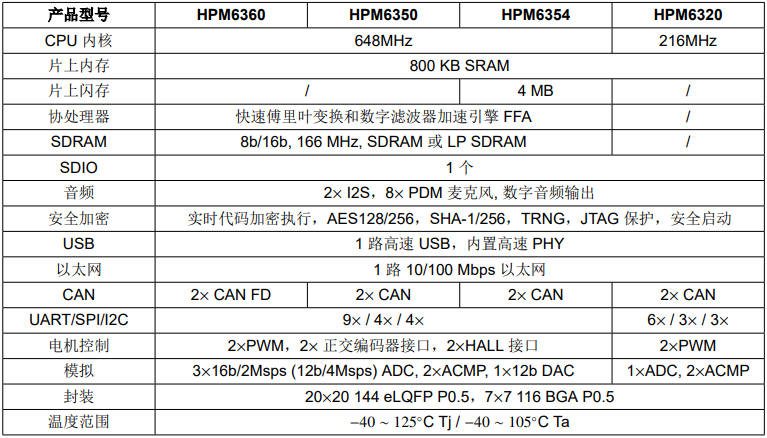
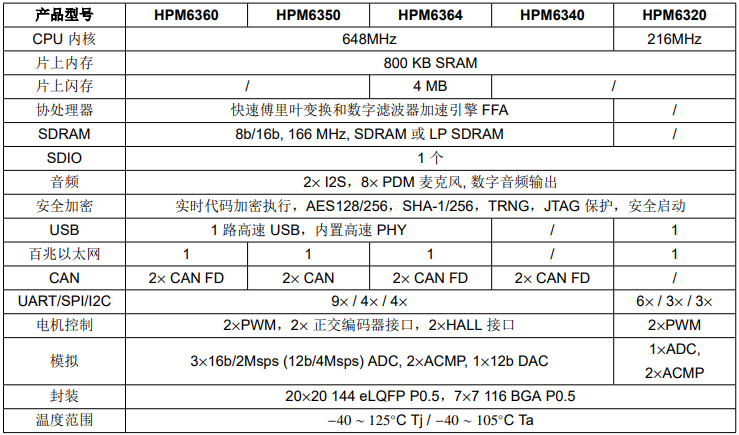
update

diff --git a/docs/high/HPM6350.rst b/docs/high/HPM6350.rst
@@ -21,8 +21,6 @@ HPM6350
 Xin简介
 -----------
 
-
-
 .. contents::
     :local:
 
@@ -37,27 +35,34 @@ Xin简介
 * 参考价格：￥28
 * 制程工艺：
 * 供货周期：
-* 处理性能：3390 :ref:`CoreMark`
-* 封装规格：eLQFP144/BGA116
+* 处理性能：3390 :ref:`CoreMark` , :ref:`level5`
+* 封装规格：eLQFP144/BGA116 (7x7mm P0.5)
 * 运行环境：-40°C to 105/125°C
 * RAM容量：800KB
-* ROM容量：
 * Flash容量：
 
 
 特征参数
 ^^^^^^^^^^^
 
-* 648 MHz :ref:`riscv` Dual Core
-* 2x USB HS OTG (集成PHY)
-* 10/100 Mbps 网口
-* 3x 16bit ADC @2Msps
-* 12bit DAC
+* 648 MHz :ref:`andes_d45`
+* 2x USB HS OTG (w/PHY)
+* 10/100 Mbps :ref:`ethernet`
+* 3x 16-bit ADC @2Msps
+* 12-bit DAC
+
+模拟性能
+^^^^^^^^^^^
+
+.. image:: ./images/HPM6350adc.png
 
 芯片架构
 ~~~~~~~~~~~
 
-:ref:`riscv` 核心 :ref:`andes_d45` :ref:`performance` : :ref:`cortex_m85` > ``5.65 Coremark/MHz`` > :ref:`cortex_m7`
+:ref:`andes_d45` :ref:`performance` : :ref:`cortex_m85` > ``5.65 Coremark/MHz`` > :ref:`cortex_m7`
+
+.. image:: ./images/HPM6350s.png
+    :target: http://www.hpmicro.com/product/summary.html?id=79841baf-170a-4870-8571-cdc299987bf6
 
 功耗参数
 ^^^^^^^^^^^
@@ -78,11 +83,18 @@ Xin选择
 型号对比
 ~~~~~~~~~
 
-.. image:: ./images/HPM6350l.png
-    :target: https://www.hpmicro.com/index.html
+.. image:: ./images/HPM6350d.png
+    :target: http://www.hpmicro.com/resources/resources.html#row5
+
 
 版本对比
 ~~~~~~~~~
 
-.. image:: ./images/HPM6350d.png
-    :target: http://www.hpmicro.com/resources/resources.html#row5
+.. image:: ./images/HPM6350l.png
+    :target: https://www.hpmicro.com/index.html
+
+.. _hpm6340:
+
+HPM6340
+^^^^^^^^^^^
+``LQFP144`` ``1.5 uA`` ``90uA/MHz``

diff --git a/docs/high/index.rst b/docs/high/index.rst
@@ -5,10 +5,6 @@
 ============
 
 
-.. contents::
-    :local:
-    :depth: 1
-
 
 .. list-table::
     :header-rows: 1
@@ -28,7 +24,7 @@
       -
       - 2 MB
       - ￥55
-      - >BGA196
+      - ≥BGA196
     * - :ref:`rt1170`
       - :ref:`cortex_m7`
       - 1 GHz
@@ -38,13 +34,13 @@
       -
       - >BGA289
     * - :ref:`hpm6350`
-      - :ref:`riscv`
+      - :ref:`andes_d45`
       - 648MHz
       - 3390
-      -
+      - 90uA/MHz
       - 800KB
-      -
-      - >BGA116
+      - ￥28
+      - ≥7x7mm
     * - :ref:`rt1060`
       - :ref:`cortex_m7`
       - 600MHz
@@ -52,7 +48,7 @@
       -
       - 1 MB
       -
-      - >BGA196
+      - ≥BGA196
     * - :ref:`stm32h745`
       - :ref:`cortex_m7`
       - 480MHz
@@ -60,7 +56,7 @@
       -
       - 1 MB
       -
-      - >LQFP144
+      - ≥LQFP144
     * - :ref:`stm32h730`
       - :ref:`cortex_m7`
       - <550MHz
@@ -68,7 +64,7 @@
       - 147/MHz
       - 1 MB
       -
-      - >BGA100
+      - ≥BGA100
 
 
 
